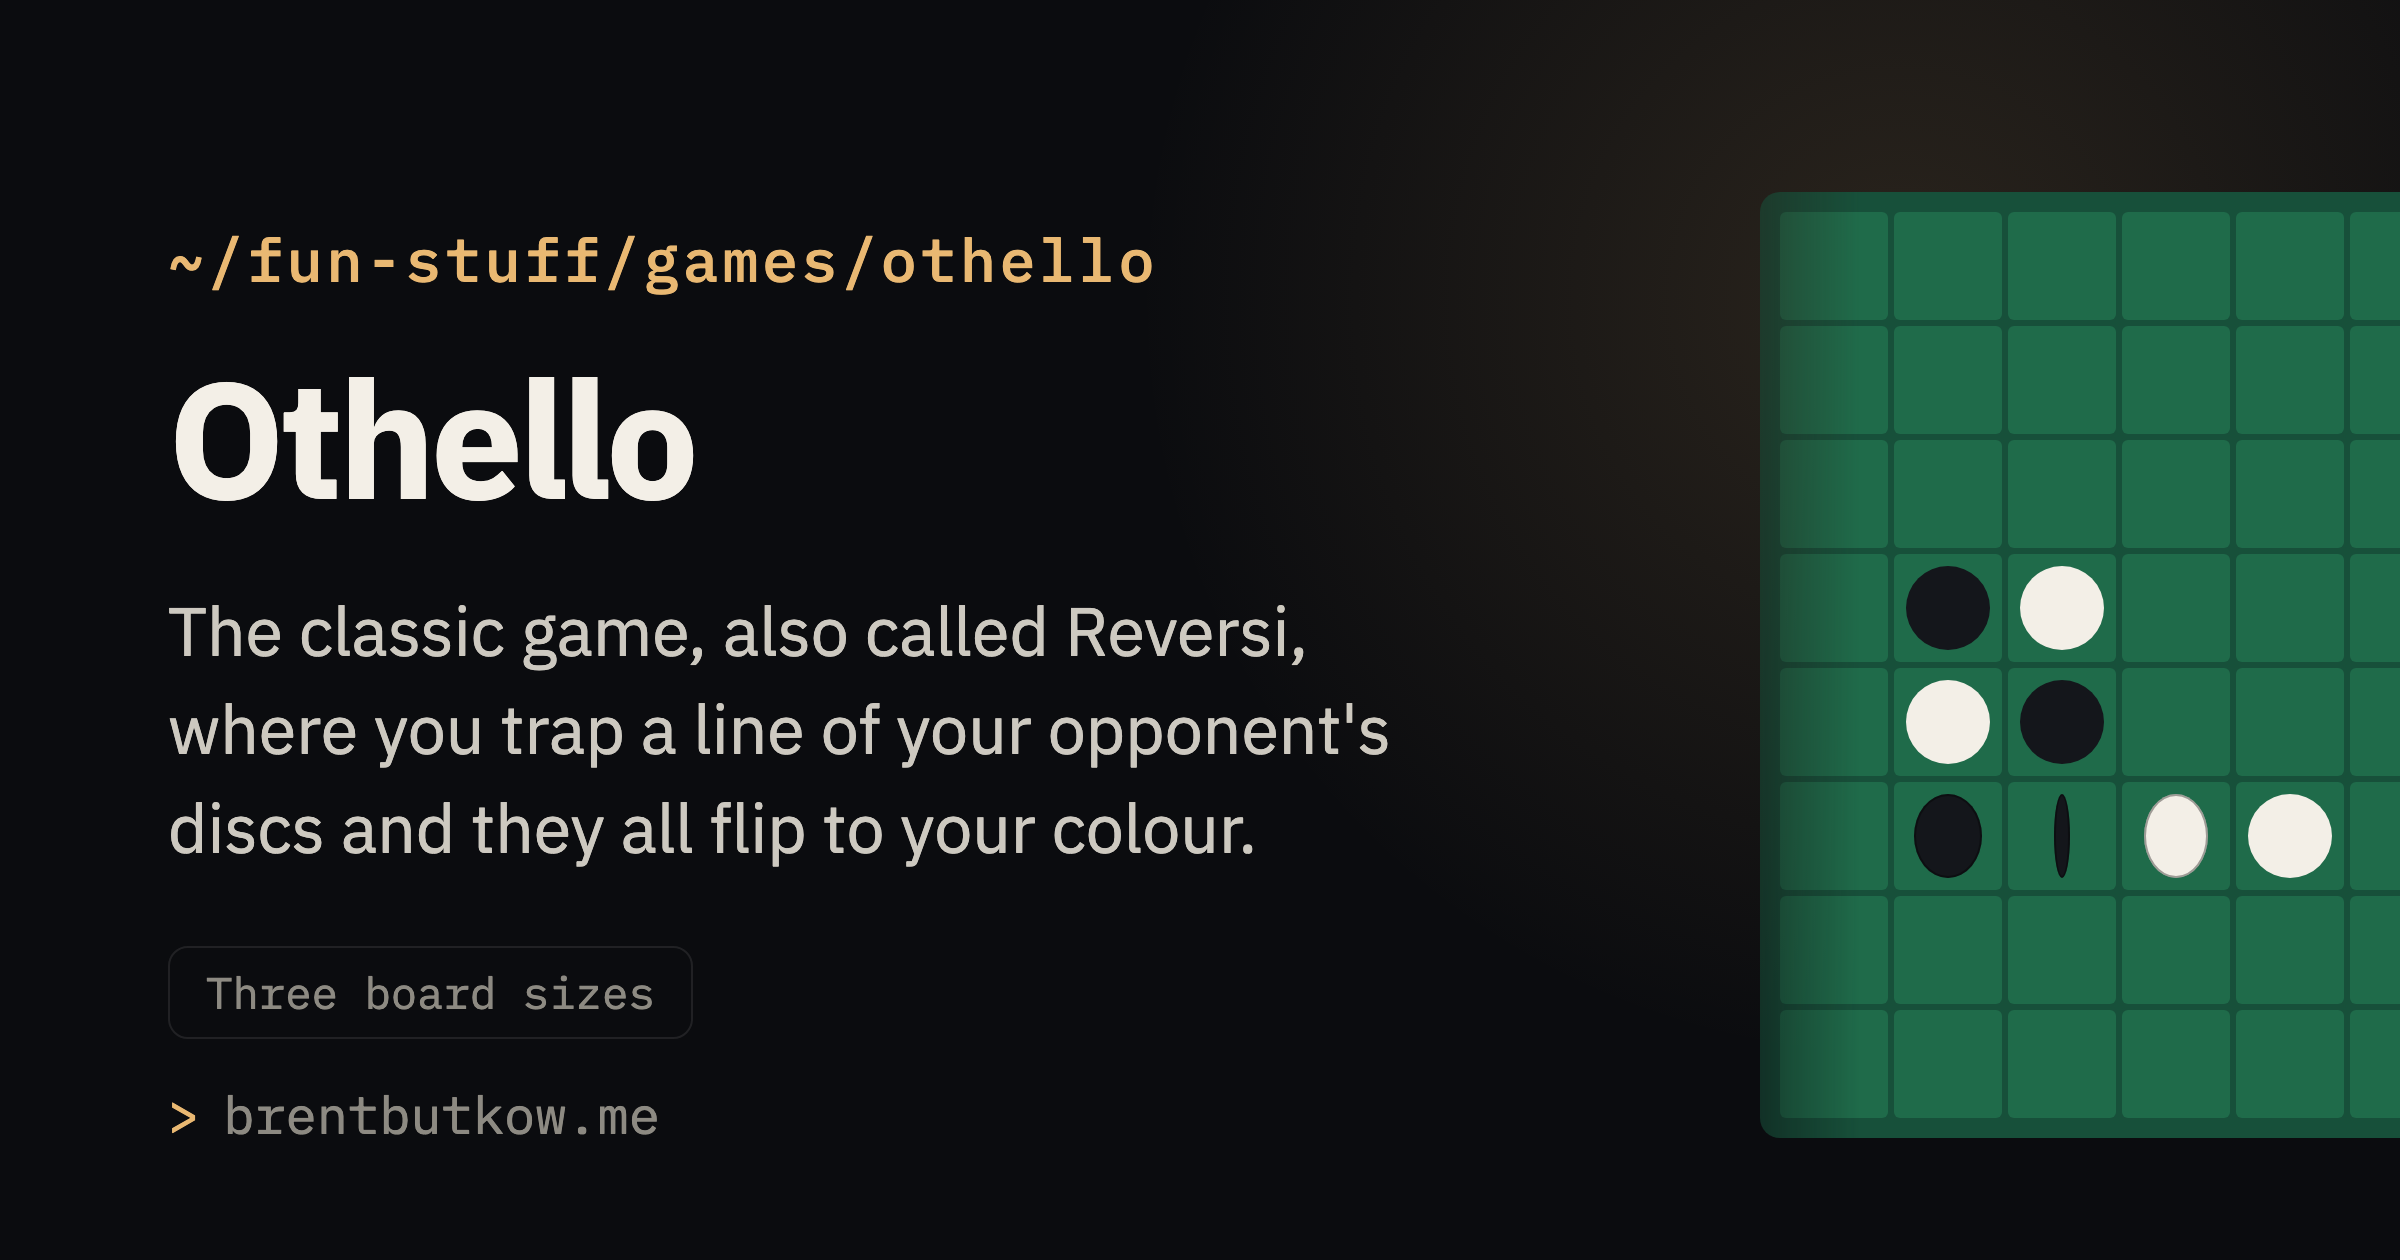
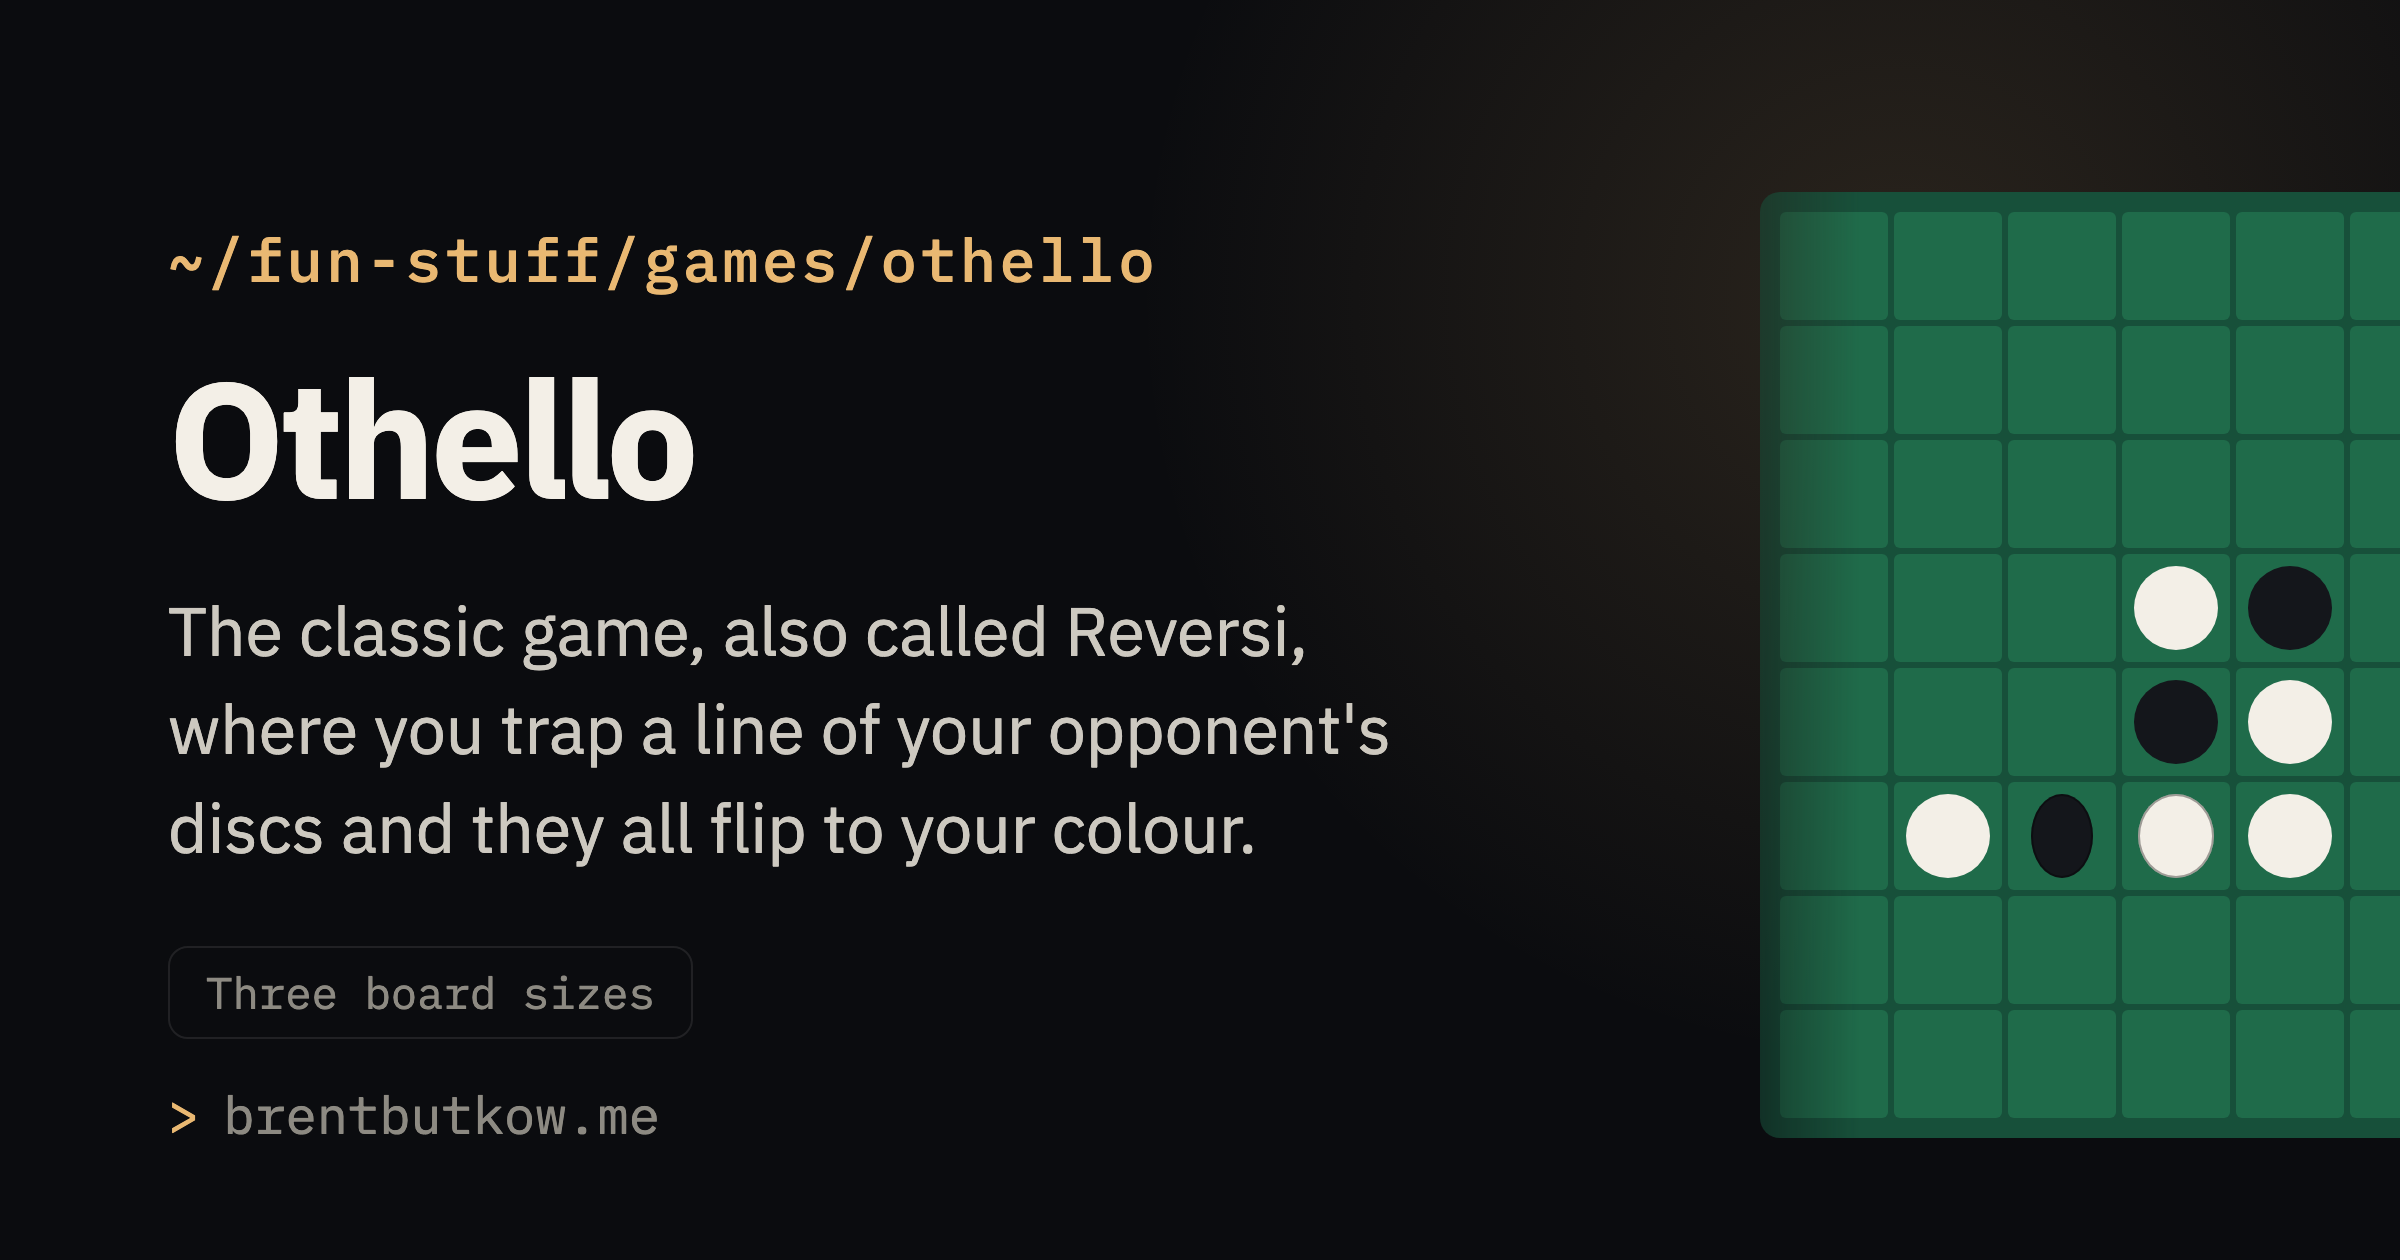
fix: update Othello board position logic and improve rendering accuracy

Changed region(s): [[0.7812, 0.4333, 0.9688, 0.7119]]

diff --git a/scripts/og/og-template.html b/scripts/og/og-template.html
@@ -548,15 +548,19 @@
 
         if (variant.art === 'board') {
           const board = add('board', {})
-          // The opening four, the disc just played at the end of the line, and the three it caught —
-          // each one further through its turn than the next, so the flip travels along the row.
-          // Kept to the columns the mask leaves fully opaque, so the whole line is on the card.
-          const dark = new Set(['1,3', '2,4'])
-          const light = new Set(['2,3', '1,4', '4,5'])
+          /**
+           * A position that could actually happen, kept to the columns the mask leaves opaque. The opening
+           * four sit where they really do on an 8x8 board, at columns 3 and 4; light has just played (4,5),
+           * and the dark run between it and light's own disc at (1,5) is what turns. A flip needs the
+           * player's own discs at both ends of the line, which the arrangement here first shipped without.
+           */
+          const dark = new Set(['3,4', '4,3'])
+          const light = new Set(['3,3', '4,4', '1,5', '4,5'])
+          // Nearest the disc just played is furthest through its turn. Neither sits near side-on: a disc at
+          // the halfway point is a line rather than a disc, and reads as a rendering fault.
           const turning = new Map([
-            ['3,5', 0.78],
-            ['2,5', 0.44],
-            ['1,5', 0.2],
+            ['3,5', 0.86],
+            ['2,5', 0.24],
           ])
           for (let row = 0; row < 8; row++) {
             for (let column = 0; column < 8; column++) {
@@ -572,7 +576,7 @@
                   `disc ${face} turning`,
                   {
                     width:
-                      Math.max(4, Math.round(42 * Math.abs(Math.cos(through * Math.PI)))) + 'px',
+                      Math.max(16, Math.round(42 * Math.abs(Math.cos(through * Math.PI)))) + 'px',
                   },
                   square
                 )
